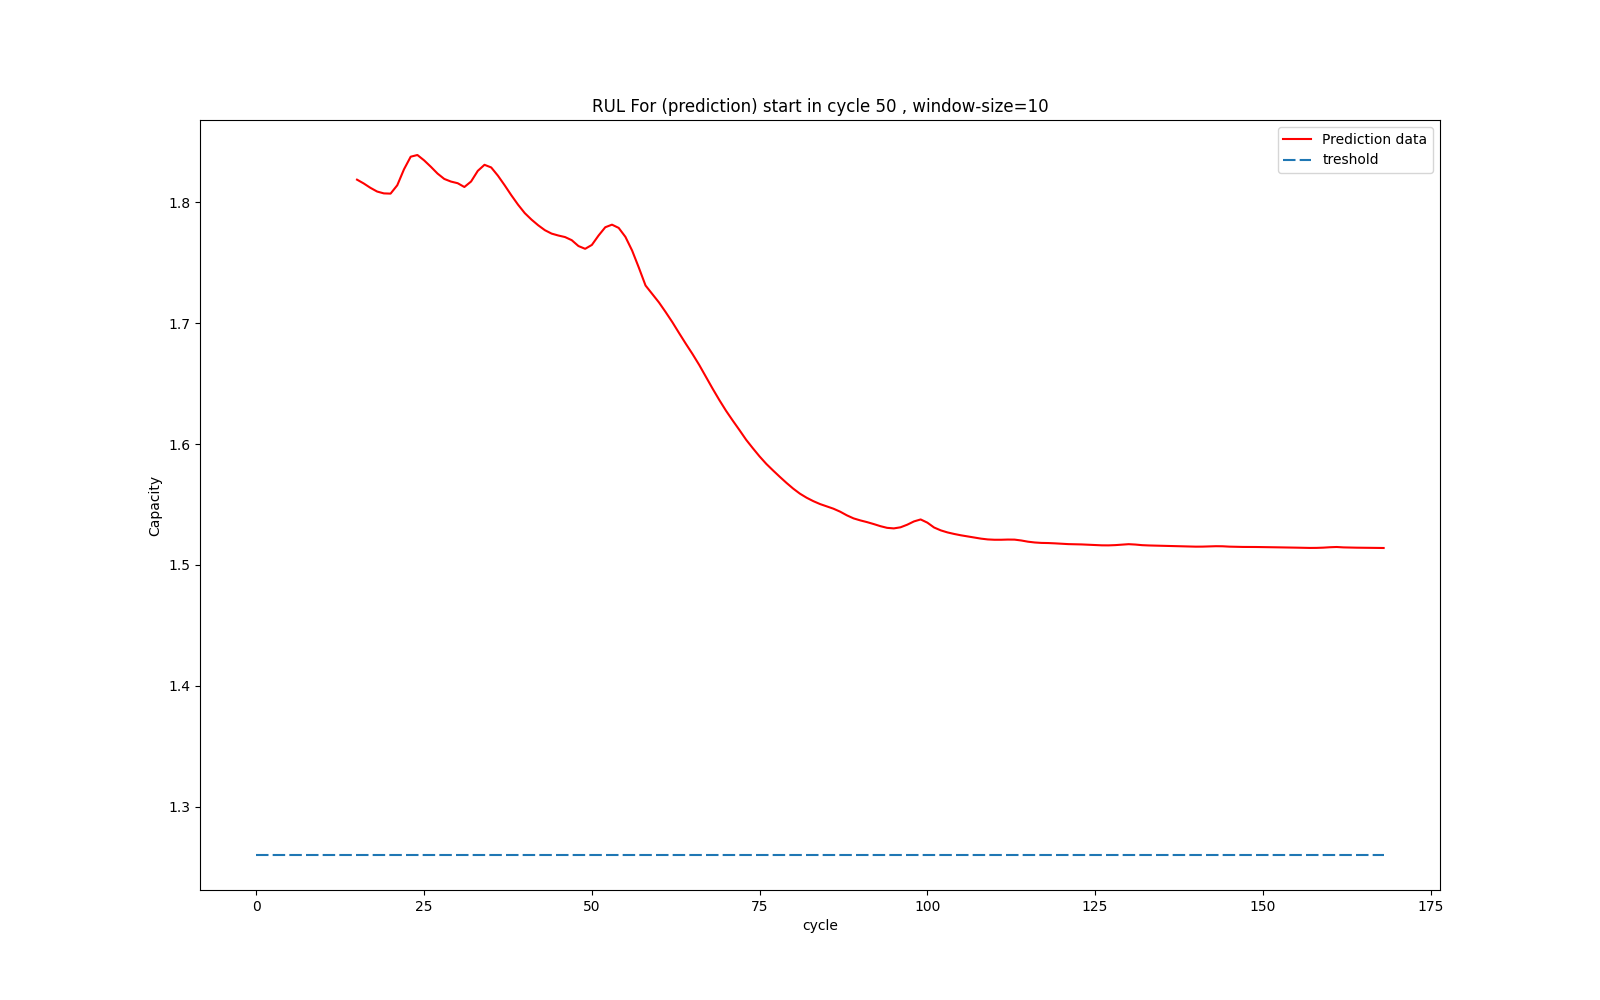
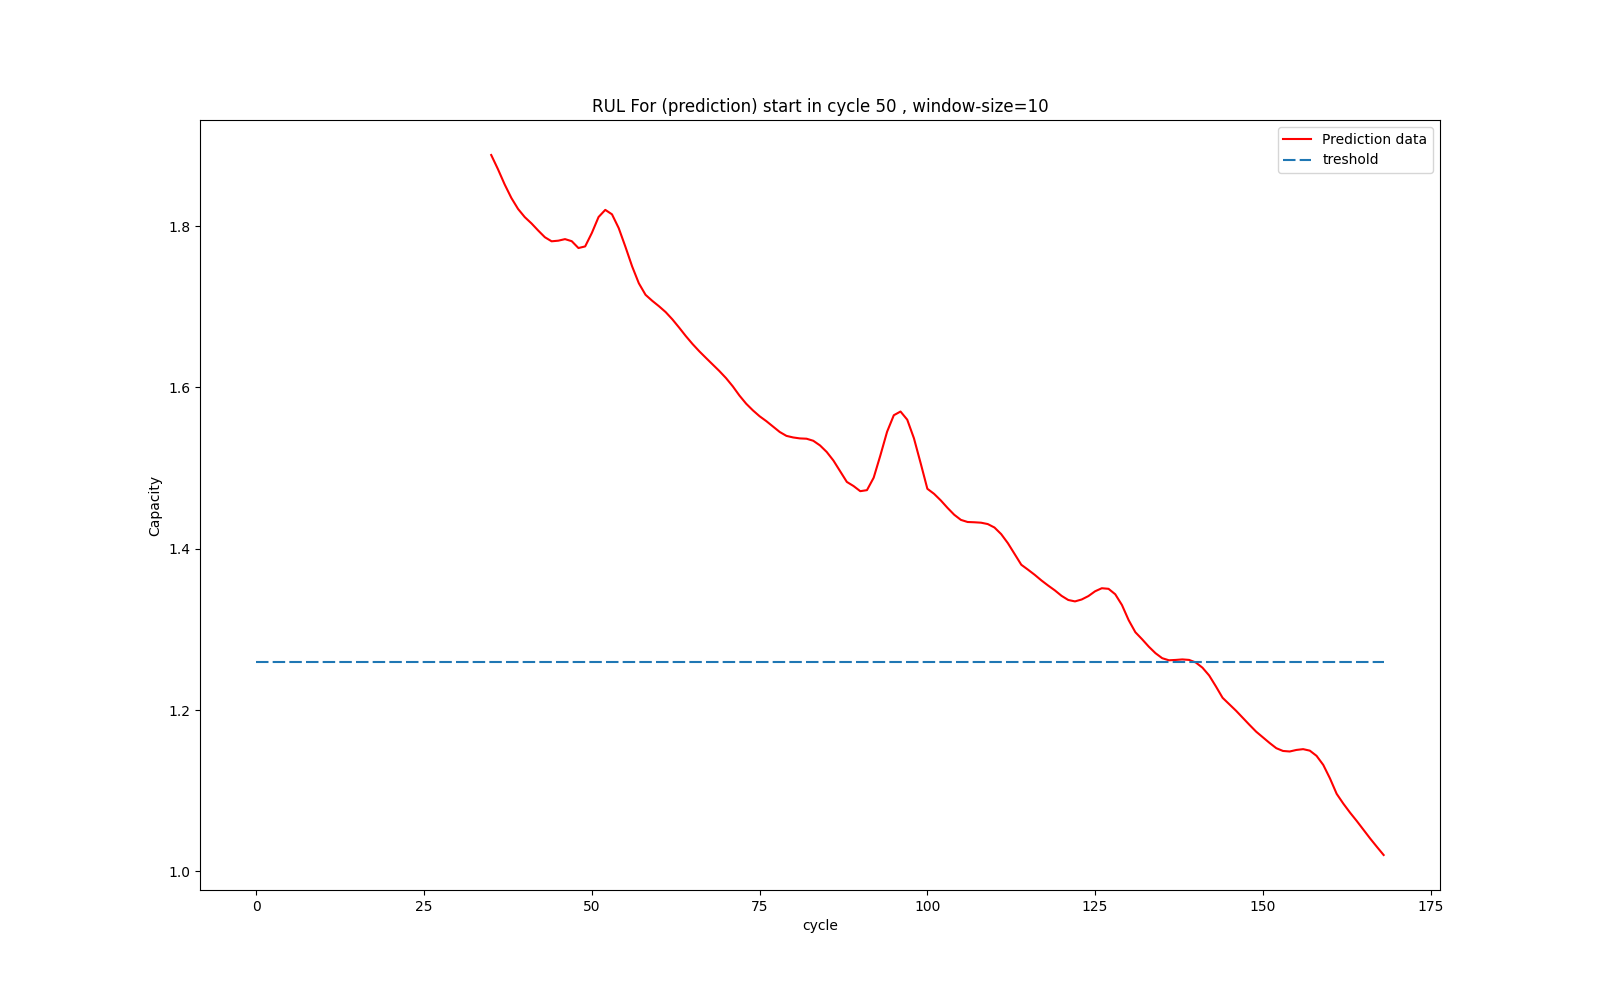
final_commit_1.0

diff --git a/app.py b/app.py
@@ -8,17 +8,8 @@ from scipy.io import loadmat
 from sklearn.preprocessing import MinMaxScaler
 from sklearn.metrics import mean_squared_error
 from sklearn import metrics
-import pickle
 import tensorflow as tf
-
-from tensorflow.keras.models import Sequential
-from tensorflow.keras.layers import Dense
-from tensorflow.keras.layers import Dropout
-from tensorflow.keras.layers import Flatten
-from tensorflow.keras.layers import LSTM
-from tensorflow.keras.optimizers import Adam
 import matplotlib.pyplot as plt
-import seaborn as sns
 
 app = Flask(__name__)
 
@@ -64,7 +55,7 @@ def upload_file():
             filename1 = os.path.splitext(filename)[0]
             print(filename1)
             cycle_1 = int(request.form['Current_Cycle'])
-            mat = loadmat('D:/Lets_Hack_4.0.1/uploads/' + filename1 + '.mat')
+            mat = loadmat(UPLOAD_FOLDER + "/" + filename1 + '.mat')
             print('Total data in dataset: ', len(mat[filename1][0, 0]['cycle'][0]))
             counter = 0
             dataset = []
@@ -123,18 +114,6 @@ def upload_file():
             X_train, y_train = np.array(X_train), np.array(y_train)
 
             X_train = np.reshape(X_train, (X_train.shape[0], X_train.shape[1], 1))
-            # model = Sequential()
-            # model.add(LSTM(units=200, return_sequences=True, input_shape=(X_train.shape[1], 1)))
-            # model.add(Dropout(0.3))
-            # model.add(LSTM(units=200, return_sequences=True))
-            # model.add(Dropout(0.3))
-            # model.add(LSTM(units=200, return_sequences=True))
-            # model.add(Dropout(0.3))
-            # model.add(LSTM(units=200))
-            # model.add(Dropout(0.3))
-            # model.add(Dense(units=1))
-            # model.compile(optimizer='adam', loss='mean_squared_error')
-            # model.fit(X_train, y_train, epochs=200, batch_size=25)
             data_total = pd.concat((data_train['capacity'], data_test['capacity']), axis=0)
             inputs = data_total[len(data_total) - len(data_test) - 10:].values
             print(len(data_total) - len(data_test) - 10)
@@ -160,14 +139,13 @@ def upload_file():
             plot_per = data_test.loc[(data_test['cycle'] >= ln), ['cycle', 'pre']]
             plt.figure(figsize=(16, 10))
             plt.plot(plot_per['cycle'], plot_per['pre'], label="Prediction data", color='red')
-            plt.plot([0., 168], [1.26, 1.26], dashes=[6, 2], label="treshold")
+            plt.plot([0., 168], [1.4, 1.4], dashes=[6, 2], label="treshold")
             plt.ylabel('Capacity')
             adf = plt.gca().get_xaxis().get_major_formatter()
             plt.xlabel('cycle')
             plt.legend()
             plt.title('RUL For (prediction) start in cycle 50 , window-size=10')
             plt.savefig('static/trial.png')
-            plt.show()
             Pfil = 0
             a = data_test['capacity'].values
             b = data_test['pre'].values
@@ -177,8 +155,9 @@ def upload_file():
                     k = i
                     Pfil = k
                     break
-            print("The prediction fail at cycle number: " + str(Pfil + ln))
-            return render_template('complete.html', prediction_text='70% of Initial Capacity Will Reach At   ' + '' + str(Pfil + ln),pointPfil = Pfil+ln)
+            print(Pfil)
+            print("The prediction fail at cycle number: " + str(Pfil + ln - cycle_1))
+            return render_template('complete.html', prediction_text='Cycle Left Till Degradation   ' + '' + str(Pfil + ln - cycle_1),pointPfil = (Pfil+ln - cycle_1))
         else:
             flash('Allowed file types are txt, pdf, png, jpg, jpeg, gif')
             return redirect(request.url)
